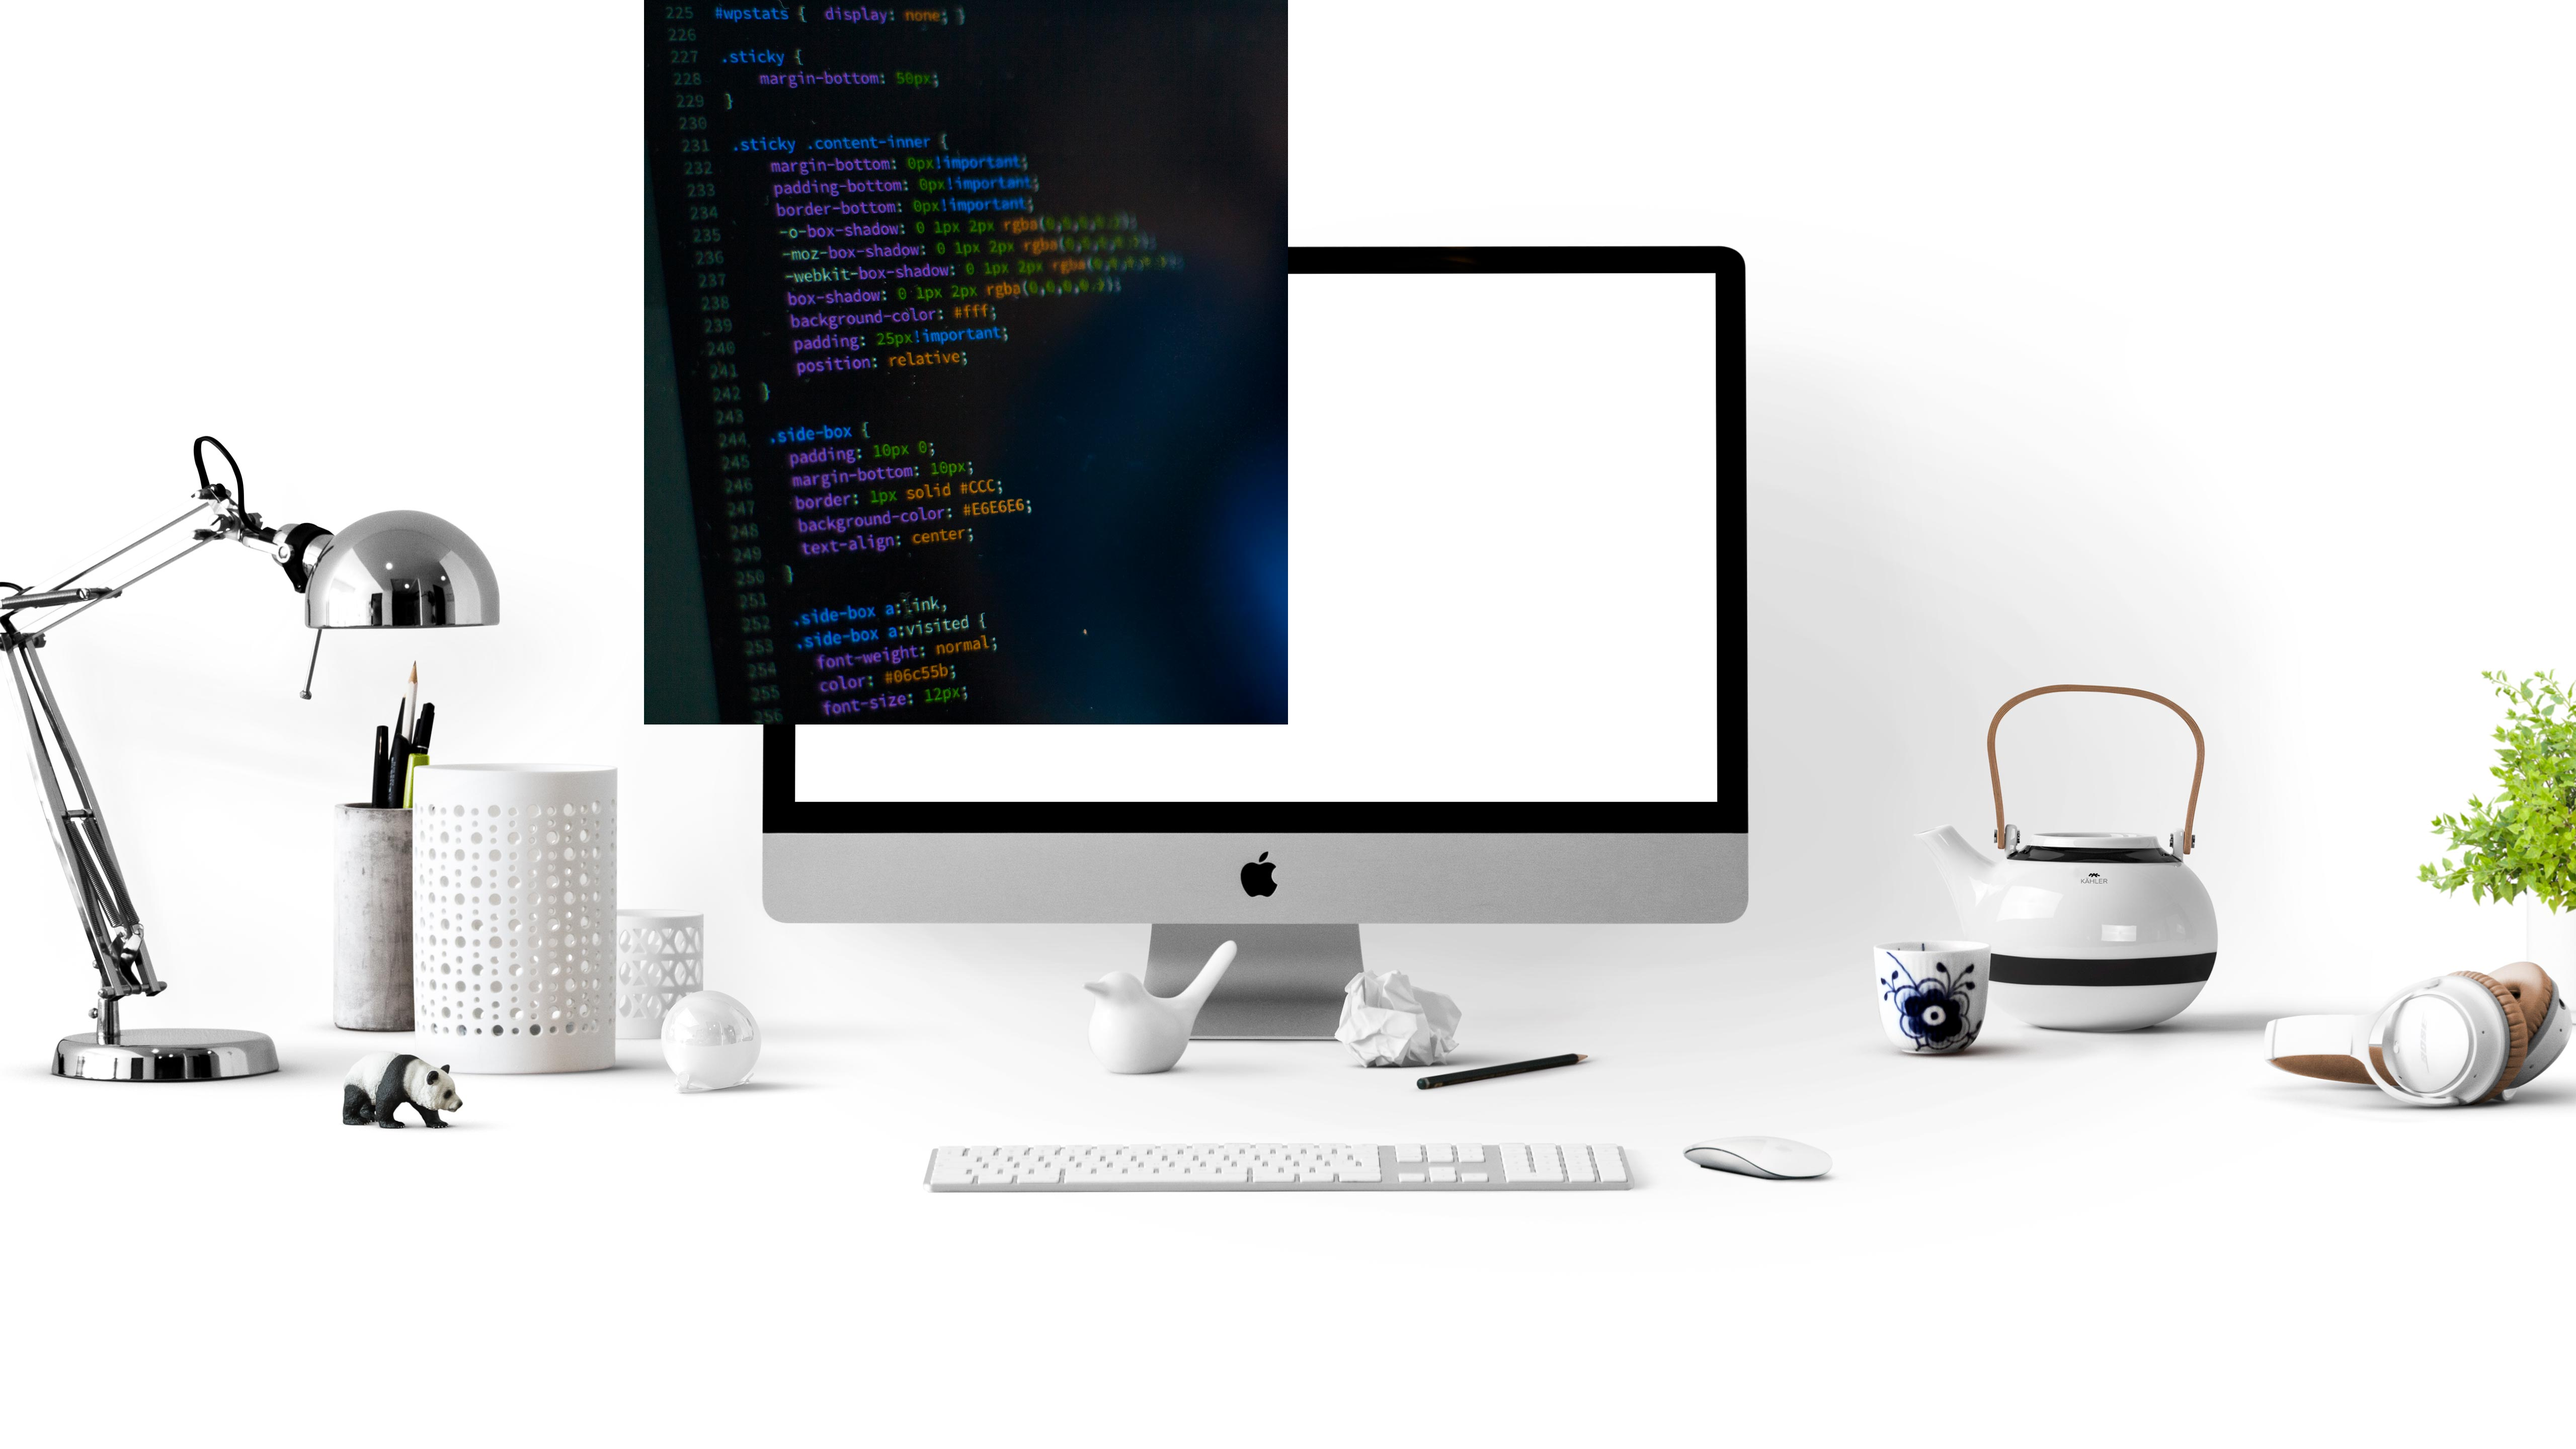
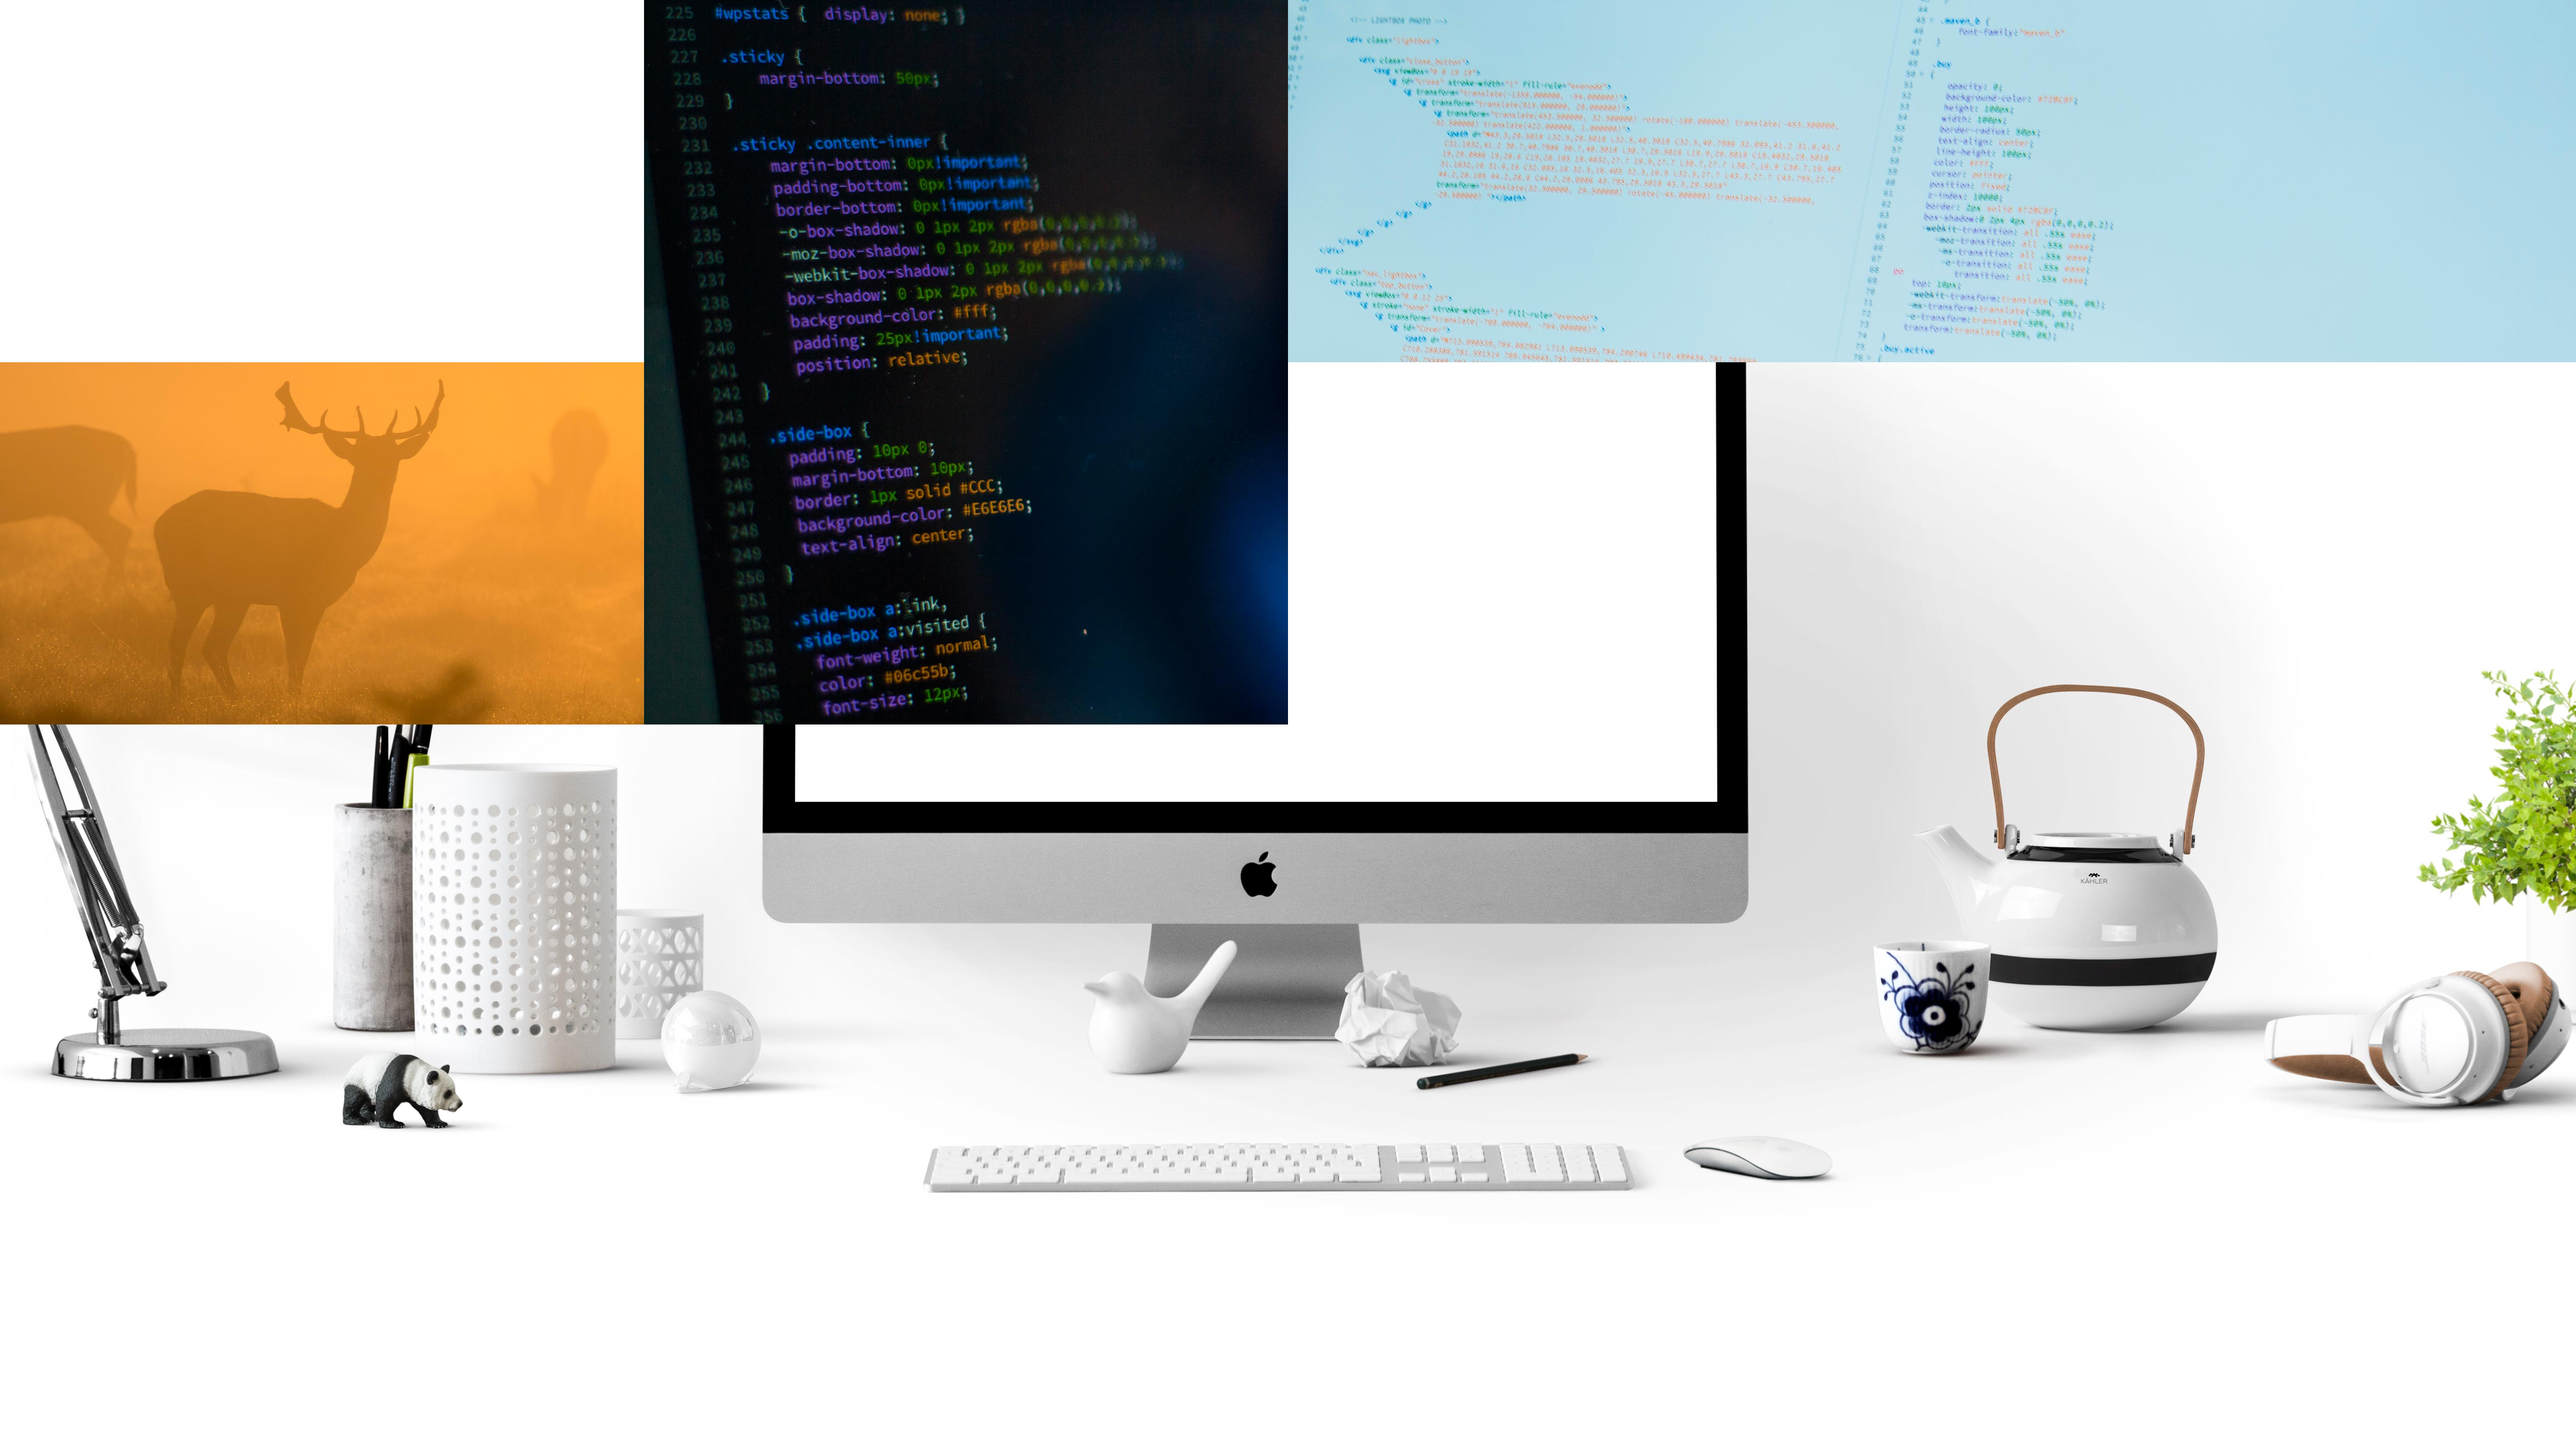
30 diciembre

Changed region(s): [[0.5, 0.0, 1.0, 0.25], [0.0, 0.25, 0.25, 0.5]]

diff --git a/css/estilos.css b/css/estilos.css
@@ -175,9 +175,15 @@ body {
     transform: scale(1);
 }
 
-#grid ul li:nth-child(3)  { background-image: url(../images/bg_css_francisco.jpg);
-    background-position: 1280px 0px;}
-#grid ul li:nth-child(4)  { background-image: url(../images/marcadohtml.jpeg); }
+#grid ul li:nth-child(3)  { 
+    background-image: url(../images/bg_css_francisco.jpg);
+    background-position: 25% 0%; 
+}
+
+#grid ul li:nth-child(4)  {  
+    background-image: url(../images/bg_css_francisco.jpg);
+    background-position: 50% 0%; }
+
 #grid ul li:nth-child(5)  { background-image: url(../images/codepen.jpg); }
 #grid ul li:nth-child(6)  { background-image: url(../images/github.png); }
 #grid ul li:nth-child(7)  { background-image: url(../images/divulgacion.jpeg); }
@@ -199,16 +205,39 @@ body {
 #grid ul li {
     position: absolute;
     background-repeat: no-repeat;
-    background-size: cover;
-    background-position: center;
 }
 
 #grid ul li:first-child   { width: 25%; height: 25%; top:   0; left:   0; background-image: url(../images/rReturn_arrow.png); }
-#grid ul li:nth-child(2)  { width: 25%; height: 25%; top: 25%; left:   0; background-image: url(../images/cv.jpg); }
-#grid ul li:nth-child(3)  { width: 25%; height: 50%; top:   0; left: 25%; 
+    
+    
+#grid ul li:nth-child(2)  { 
+    width: 25%; 
+    height: 25%; 
+    top: 25%; 
+    left:   0; 
+    background-image: url(../images/bg_css_francisco.jpg); 
+    background-position: 25% 25%; 
+    background-attachment: fixed;}
+    
+#grid ul li:nth-child(3)  { 
+    width: 25%; 
+    height: 50%; 
+    left:   25%; 
+    top: 0%; 
     background-image: url(../images/bg_css_francisco.jpg);
-    background-position: 1280px 0px;}
-#grid ul li:nth-child(4)  { width: 50%; height: 25%; top:   0; left: 50%; background-image: url(../images/marcadohtml.jpeg); }
+    background-position: 25% 0%; 
+    background-attachment: fixed;}
+
+#grid ul li:nth-child(4)  { 
+    width: 50%; 
+    height: 25%; 
+    left:   50%; 
+    top: 0%; 
+    background-image: url(../images/bg_css_francisco.jpg);
+    background-position: 50% 0%; 
+    background-attachment: fixed;}
+    
+    
 #grid ul li:nth-child(5)  { width: 25%; height: 25%; top: 25%; left: 50%; background-image: url(../images/codepen.jpg); }
 #grid ul li:nth-child(6)  { width: 25%; height: 25%; top: 25%; left: 75%; background-image: url(../images/github.png); }
 #grid ul li:nth-child(7)  { width: 25%; height: 50%; top: 50%; left:  0%; background-image: url(../images/divulgacion.jpeg); }

diff --git a/www/css/estilos.css b/www/css/estilos.css
@@ -175,9 +175,15 @@ body {
     transform: scale(1);
 }
 
-#grid ul li:nth-child(3)  { background-image: url(../images/bg_css_francisco.jpg);
-    background-position: 1280px 0px;}
-#grid ul li:nth-child(4)  { background-image: url(../images/marcadohtml.jpeg); }
+#grid ul li:nth-child(3)  { 
+    background-image: url(../images/bg_css_francisco.jpg);
+    background-position: 25% 0%; 
+}
+
+#grid ul li:nth-child(4)  {  
+    background-image: url(../images/bg_css_francisco.jpg);
+    background-position: 50% 0%; }
+
 #grid ul li:nth-child(5)  { background-image: url(../images/codepen.jpg); }
 #grid ul li:nth-child(6)  { background-image: url(../images/github.png); }
 #grid ul li:nth-child(7)  { background-image: url(../images/divulgacion.jpeg); }
@@ -199,16 +205,39 @@ body {
 #grid ul li {
     position: absolute;
     background-repeat: no-repeat;
-    background-size: cover;
-    background-position: center;
 }
 
 #grid ul li:first-child   { width: 25%; height: 25%; top:   0; left:   0; background-image: url(../images/rReturn_arrow.png); }
-#grid ul li:nth-child(2)  { width: 25%; height: 25%; top: 25%; left:   0; background-image: url(../images/cv.jpg); }
-#grid ul li:nth-child(3)  { width: 25%; height: 50%; top:   0; left: 25%; 
+    
+    
+#grid ul li:nth-child(2)  { 
+    width: 25%; 
+    height: 25%; 
+    top: 25%; 
+    left:   0; 
+    background-image: url(../images/bg_css_francisco.jpg); 
+    background-position: 25% 25%; 
+    background-attachment: fixed;}
+    
+#grid ul li:nth-child(3)  { 
+    width: 25%; 
+    height: 50%; 
+    left:   25%; 
+    top: 0%; 
     background-image: url(../images/bg_css_francisco.jpg);
-    background-position: 1280px 0px;}
-#grid ul li:nth-child(4)  { width: 50%; height: 25%; top:   0; left: 50%; background-image: url(../images/marcadohtml.jpeg); }
+    background-position: 25% 0%; 
+    background-attachment: fixed;}
+
+#grid ul li:nth-child(4)  { 
+    width: 50%; 
+    height: 25%; 
+    left:   50%; 
+    top: 0%; 
+    background-image: url(../images/bg_css_francisco.jpg);
+    background-position: 50% 0%; 
+    background-attachment: fixed;}
+    
+    
 #grid ul li:nth-child(5)  { width: 25%; height: 25%; top: 25%; left: 50%; background-image: url(../images/codepen.jpg); }
 #grid ul li:nth-child(6)  { width: 25%; height: 25%; top: 25%; left: 75%; background-image: url(../images/github.png); }
 #grid ul li:nth-child(7)  { width: 25%; height: 50%; top: 50%; left:  0%; background-image: url(../images/divulgacion.jpeg); }
